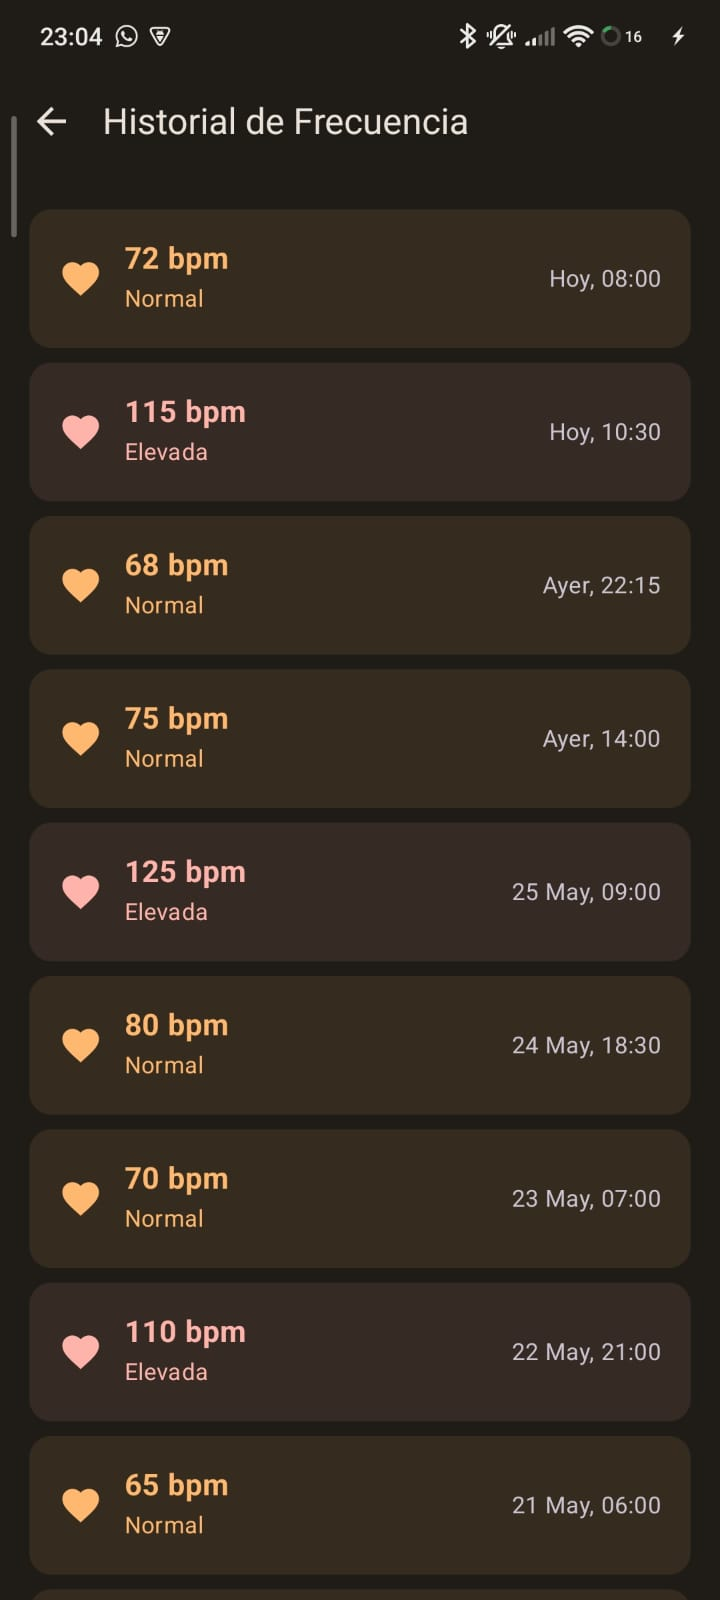
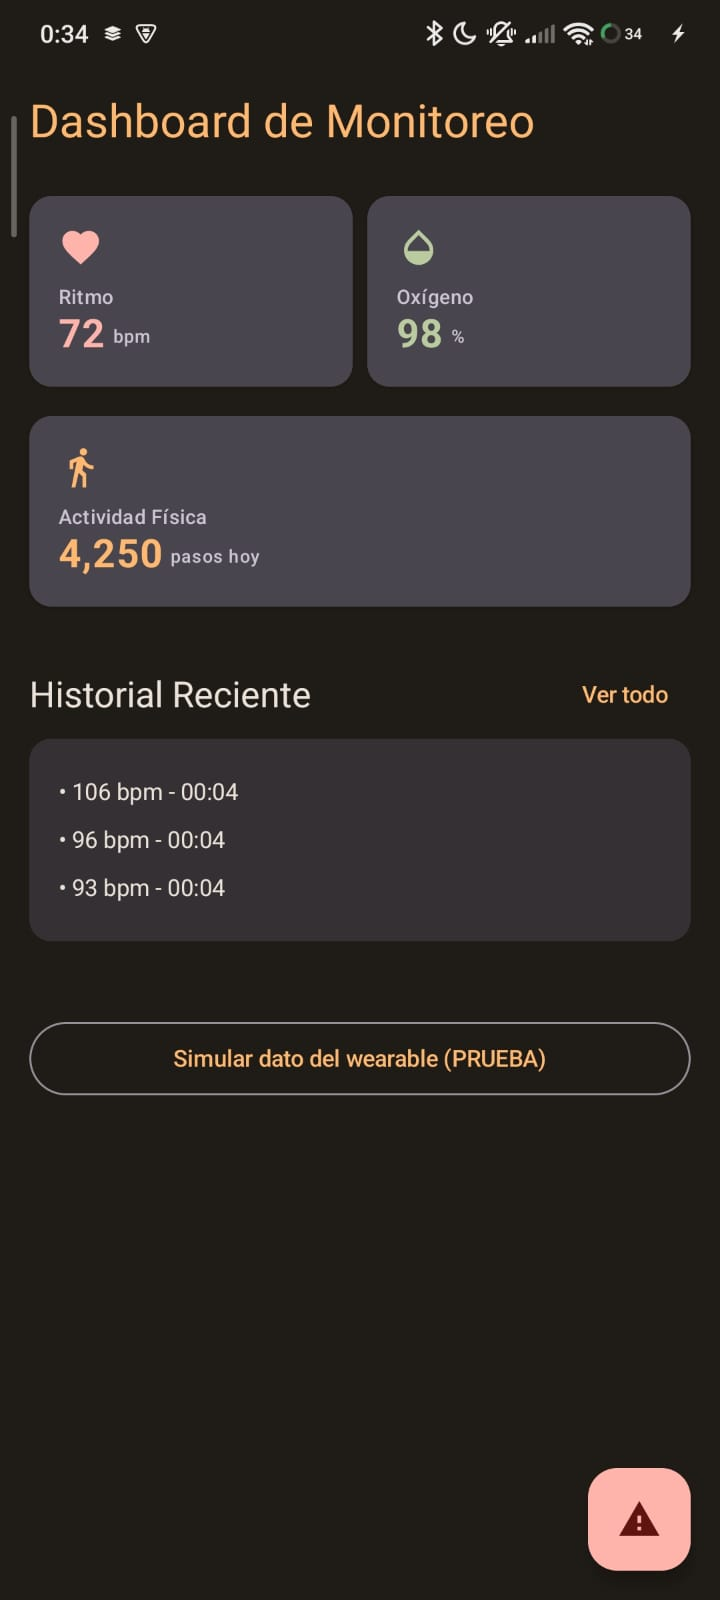
docs: add final screenshots and complete README for Unidad I

diff --git a/README.md b/README.md
@@ -1,26 +1,35 @@
 # SmartHealth Monitor
+![Android CI](https://img.shields.io/badge/Android-API26+-green)
+![Compose](https://img.shields.io/badge/Jetpack%20Compose-MD3-blue)
 
-Aplicación Android multiplataforma para monitoreo de salud personal.
-Desarrollada como proyecto integrador en UTNG — 9° Cuatrimestre 2025.
+Aplicación Android de monitoreo de salud personal en tiempo real.
+Desarrollada como proyecto integrador — UTNG 9° Cuatrimestre 2025.
 
 ## Stack tecnológico
-- Kotlin + Jetpack Compose
-- Material Design 3
-- Wearable Data Layer API (Wear OS)
-- Android TV / Leanback + Media3
-- Jetpack Navigation + Room + StateFlow
+| Tecnología | Uso |
+|---|---|
+| Kotlin + Jetpack Compose | UI declarativa con Material Design 3 |
+| Wearable Data Layer API  | Comunicación reloj ↔ teléfono (BLE) |
+| Health Services API     | Sensor FC real en background (Wear OS) |
+| Room Database           | Historial persistente de lecturas FC |
+| Jetpack Navigation      | NavHost entre 4 pantallas |
+| GitHub + Conventional Commits | Control de versiones profesional |
 
-## Pantallas implementadas
-- [x] LoginScreen — S4
-- [x] DashboardScreen — S5
-- [x] Historial + wearable real — S6
-- [ ] Android TV — S10-S12
+## Pantallas
+| Pantalla | Descripción |
+|---|---|
+| LoginScreen | Autenticación con validación y State |
+| DashboardScreen | FC y Pasos en tiempo real del wearable |
+| HistorialScreen | Lecturas persistidas en Room con Flow reactivo |
+| AlertaScreen | AlertDialog MD3 + Snackbar de confirmación |
 
 ## Capturas de pantalla
 <p align="center">
-  <img src="screenshots/login.png" width="30%" />
-  <img src="screenshots/dashboard.png" width="30%" />
+  <img src="screenshots/login.png" width="24%" alt="Login" />
+  <img src="screenshots/dashboard.png" width="24%" alt="Dashboard" />
+  <img src="screenshots/historial.png" width="24%" alt="Historial" />
+  <img src="screenshots/alerta.png" width="24%" alt="Alerta" />
 </p>
 
 ## Autor
-Cesar — UTNG — Cesax69
+Cesar Enrique Garay Garcia — UTNG — Ing. en Desarrollo y Gestión de Software
